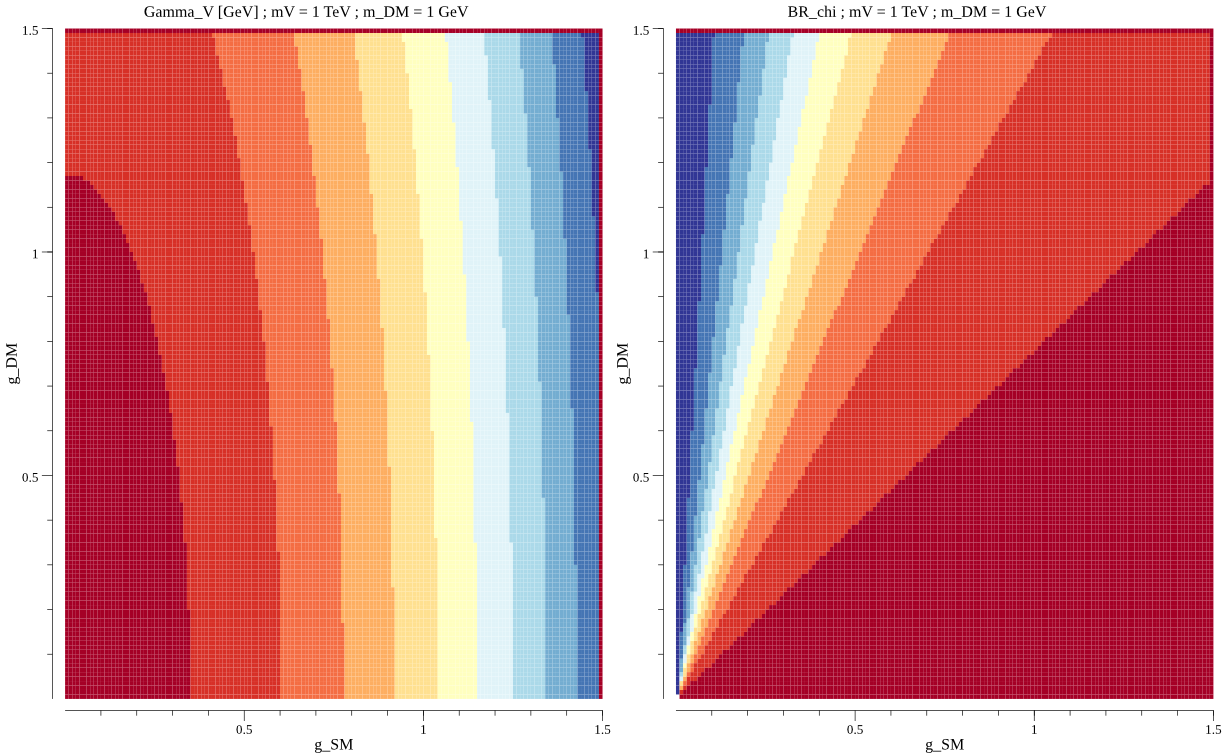
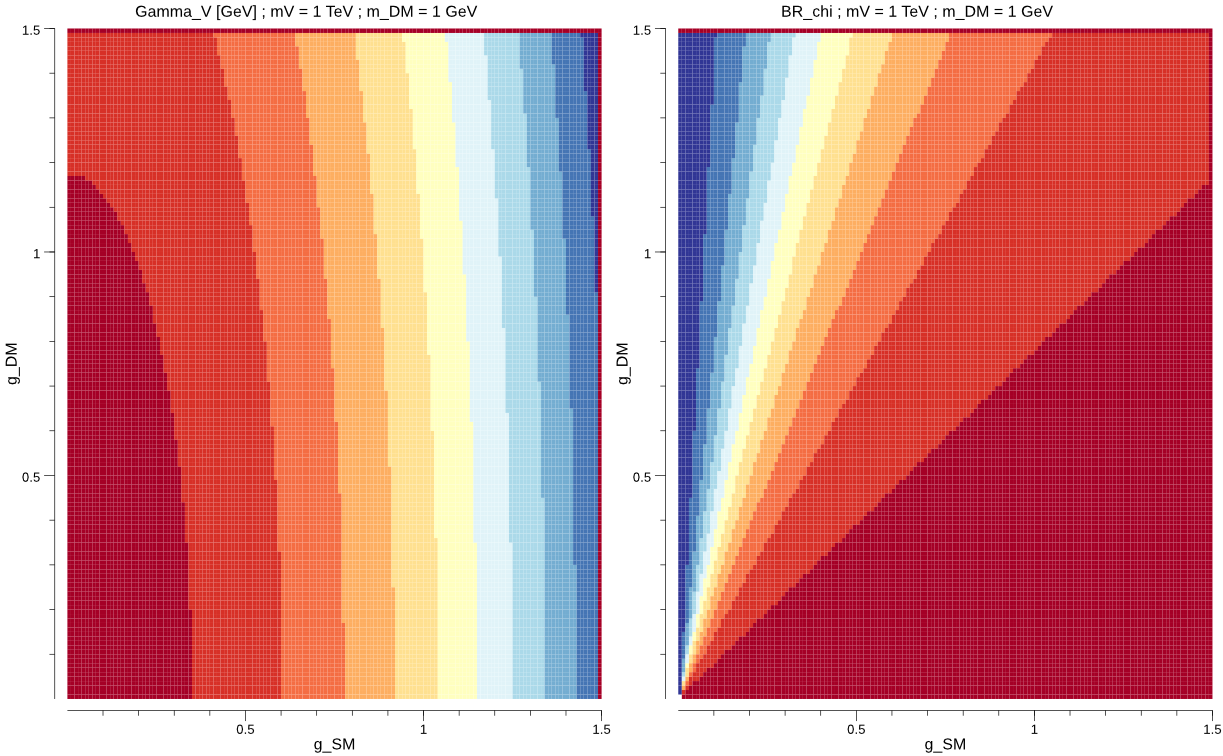
all: use new hplot API

diff --git a/main.go b/main.go
@@ -86,10 +86,7 @@ func totwidth() {
 	m1 := floats.Span(make([]float64, 1000), mt/5, mt*10)
 	m2 := floats.Span(make([]float64, 1000), 500, 5000)
 
-	tp, err := hplot.NewTiledPlot(draw.Tiles{Cols: 2, Rows: 1})
-	if err != nil {
-		log.Fatal(err)
-	}
+	tp := hplot.NewTiledPlot(draw.Tiles{Cols: 2, Rows: 1})
 
 	{
 		p := tp.Plot(0, 0)
@@ -159,7 +156,7 @@ func totwidth() {
 
 	for _, ext := range []string{".png", ".pdf"} {
 		fname := "go-total-width" + ext
-		err = tp.Save(-1, 20*vg.Centimeter, fname)
+		err := tp.Save(-1, 20*vg.Centimeter, fname)
 		if err != nil {
 			log.Fatalf("error saving %q: %v", fname, err)
 		}
@@ -171,10 +168,7 @@ func smcouplings() {
 	gDM := []float64{0.5, 1, 1.5}
 	g := floats.Span(make([]float64, 150), 0, 1.5)
 
-	tp, err := hplot.NewTiledPlot(draw.Tiles{Rows: 1, Cols: 2})
-	if err != nil {
-		log.Fatal(err)
-	}
+	tp := hplot.NewTiledPlot(draw.Tiles{Rows: 1, Cols: 2})
 
 	{
 		p := tp.Plot(0, 0)
@@ -225,7 +219,7 @@ func smcouplings() {
 
 	for _, ext := range []string{".png", ".pdf"} {
 		fname := "go-sm-couplings-dep" + ext
-		err = tp.Save(-1, 20*vg.Centimeter, fname)
+		err := tp.Save(-1, 20*vg.Centimeter, fname)
 		if err != nil {
 			log.Fatalf("error saving %q: %v", fname, err)
 		}
@@ -246,10 +240,7 @@ func brcouplings() {
 		}
 	}
 
-	tp, err := hplot.NewTiledPlot(draw.Tiles{Rows: 1, Cols: 2})
-	if err != nil {
-		log.Fatal(err)
-	}
+	tp := hplot.NewTiledPlot(draw.Tiles{Rows: 1, Cols: 2})
 
 	title := fmt.Sprintf("mV = %0.f TeV ; m_DM = %0.f GeV", mV/1000.0, mDM)
 	{
@@ -269,7 +260,7 @@ func brcouplings() {
 
 	for _, ext := range []string{".png", ".pdf"} {
 		fname := "go-br-gamma-couplings" + ext
-		err = tp.Save(-1, 20*vg.Centimeter, fname)
+		err := tp.Save(-1, 20*vg.Centimeter, fname)
 		if err != nil {
 			log.Fatalf("error saving %q: %v", fname, err)
 		}
@@ -289,10 +280,7 @@ func gammabrcouplings() {
 		}
 	}
 
-	tp, err := hplot.NewTiledPlot(draw.Tiles{Rows: 1, Cols: 2})
-	if err != nil {
-		log.Fatal(err)
-	}
+	tp := hplot.NewTiledPlot(draw.Tiles{Rows: 1, Cols: 2})
 
 	title := fmt.Sprintf("mV = %0.f TeV ; m_DM = %0.f GeV", mV/1000.0, mDM)
 	{
@@ -312,7 +300,7 @@ func gammabrcouplings() {
 
 	for _, ext := range []string{".png", ".pdf"} {
 		fname := "go-couplings-vs-gammabr" + ext
-		err = tp.Save(-1, 20*vg.Centimeter, fname)
+		err := tp.Save(-1, 20*vg.Centimeter, fname)
 		if err != nil {
 			log.Fatalf("error saving %q: %v", fname, err)
 		}
